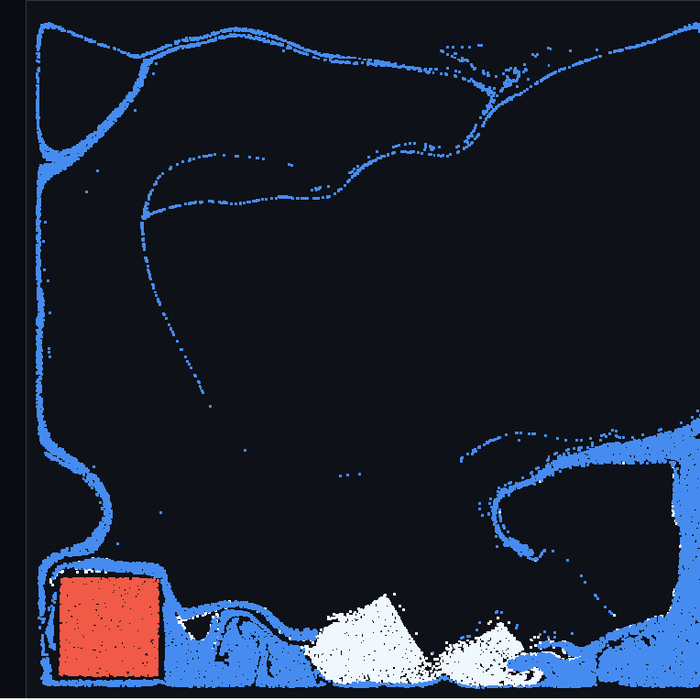
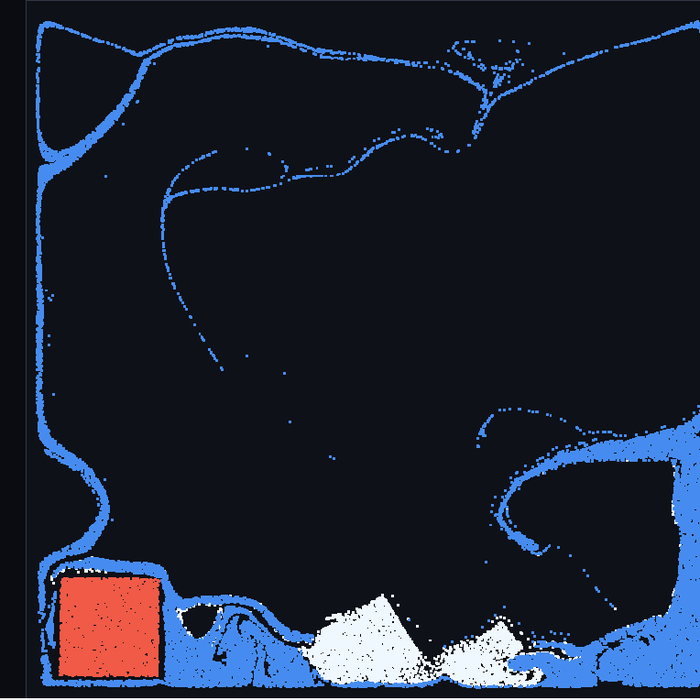
fix(mpm): let the splat radius go below one pixel, adapt the fill pass
The grain slider could not actually reach a fine setting, for two reasons that both lived in the render path rather than the slider. The radius was clamped at a minimum of one, so everything below grain 0.7 produced the same image; that clamp is gone and radius 0 draws a single pixel. And the fill pass was an unconditional 3x3 maximum, which inflated even a one-pixel dot into a three-pixel blob - the smallest particle the app could possibly draw was 3 px regardless of settings. The fill now runs only when the splat is smaller than two pixels, and as a cross rather than a full square. The automatic radius also had the sign backwards: it was a third of the particle spacing, so raising the sampling density made the dots smaller and the picture sparser, exactly the opposite of what more particles should do. It is now 0.55 of the spacing, which tiles the surface, with the slider multiplying it over a range of 0.01x to 8x; the density list gains 36 and 48 per cell. Default is 16 per cell, 31250 particles, radius one, 22 ms a frame at 45 fps.

diff --git a/apps/Physics/MPM2D.py b/apps/Physics/MPM2D.py
@@ -9,7 +9,7 @@ dim = 2
 # ==================== 参数（本构照 taichi_elements engine/mpm_solver.py） ====================
 RES_DEFAULT = 128
 RES_OPTIONS = (128, 192, 256, 384)
-DENSITY_OPTIONS = (4, 8, 16, 24)
+DENSITY_OPTIONS = (4, 8, 16, 24, 36, 48)
 RES_MAX = max(RES_OPTIONS)
 PADDING = 3
 GRAVITY_Y = -9.8
@@ -267,18 +267,19 @@ class MPM2D:
                                 self.img[jj, ii] = col
 
         @ti.kernel
-        def dilate():
-            # 3x3 取最大：把 1 像素的点撑开填缝，颜色保持不变
-            # （3x3 平均会把孤立点压成 4/9 亮度，画面发暗）
+        def dilate(level: ti.i32):
+            # 按需要填缝：level 0 = 不处理，1 = 十字 5 抽样，2 = 3x3
+            # 取最大值不会改变颜色（3x3 平均会把孤立点压成 4/9 亮度）
             rres = RENDER_RES
             for i, j in self.img:
                 c = self.img[i, j]
                 for di, dj in ti.static(ti.ndrange(-1, 2)):
-                    ii = ti.min(ti.max(i + di, 0), rres - 1)
-                    jj = ti.min(ti.max(j + dj, 0), rres - 1)
-                    o = self.img[ii, jj]
-                    c = ti.Vector([ti.max(c[0], o[0]), ti.max(c[1], o[1]),
-                                   ti.max(c[2], o[2])], ti.u8)
+                    if level == 2 or di == 0 or dj == 0:
+                        ii = ti.min(ti.max(i + di, 0), rres - 1)
+                        jj = ti.min(ti.max(j + dj, 0), rres - 1)
+                        o = self.img[ii, jj]
+                        c = ti.Vector([ti.max(c[0], o[0]), ti.max(c[1], o[1]),
+                                       ti.max(c[2], o[2])], ti.u8)
                 self.blur_tmp[i, j] = c
             for i, j in self.img:
                 self.img[i, j] = self.blur_tmp[i, j]
@@ -344,13 +345,15 @@ class MPM2D:
     def particle_radius(self, grain=1.0):
         """点半径按粒子间距自适应；grain 是颗粒度倍率。"""
         spacing_px = (self.dx / max(1.0, (self.density ** 0.5))) * RENDER_RES
-        return max(1, int(round(spacing_px * 0.35 * grain)))
+        return max(0, int(round(spacing_px * 0.55 * grain)))
 
     def draw(self, radius=None, grain=1.0):
         if radius is None:
             radius = self.particle_radius(grain)
         self._render(radius)
-        self._blur()
+        # 点足够大时不填缝；点很小时用十字，中等用 3x3
+        if radius < 2:
+            self._blur(1)
         return self.img.to_numpy()
 
     def particle_info(self):
@@ -528,7 +531,7 @@ class MPMApp(QMainWindow):
         f0.addRow("采样", self.den_box)
         self.grain = 1.0
         self.grain_slider = QSlider(Qt.Horizontal)
-        self.grain_slider.setRange(5, 400)
+        self.grain_slider.setRange(1, 800)
         self.grain_slider.setValue(100)
         self.grain_slider.valueChanged.connect(self.on_grain)
         f0.addRow("颗粒度", self.grain_slider)
